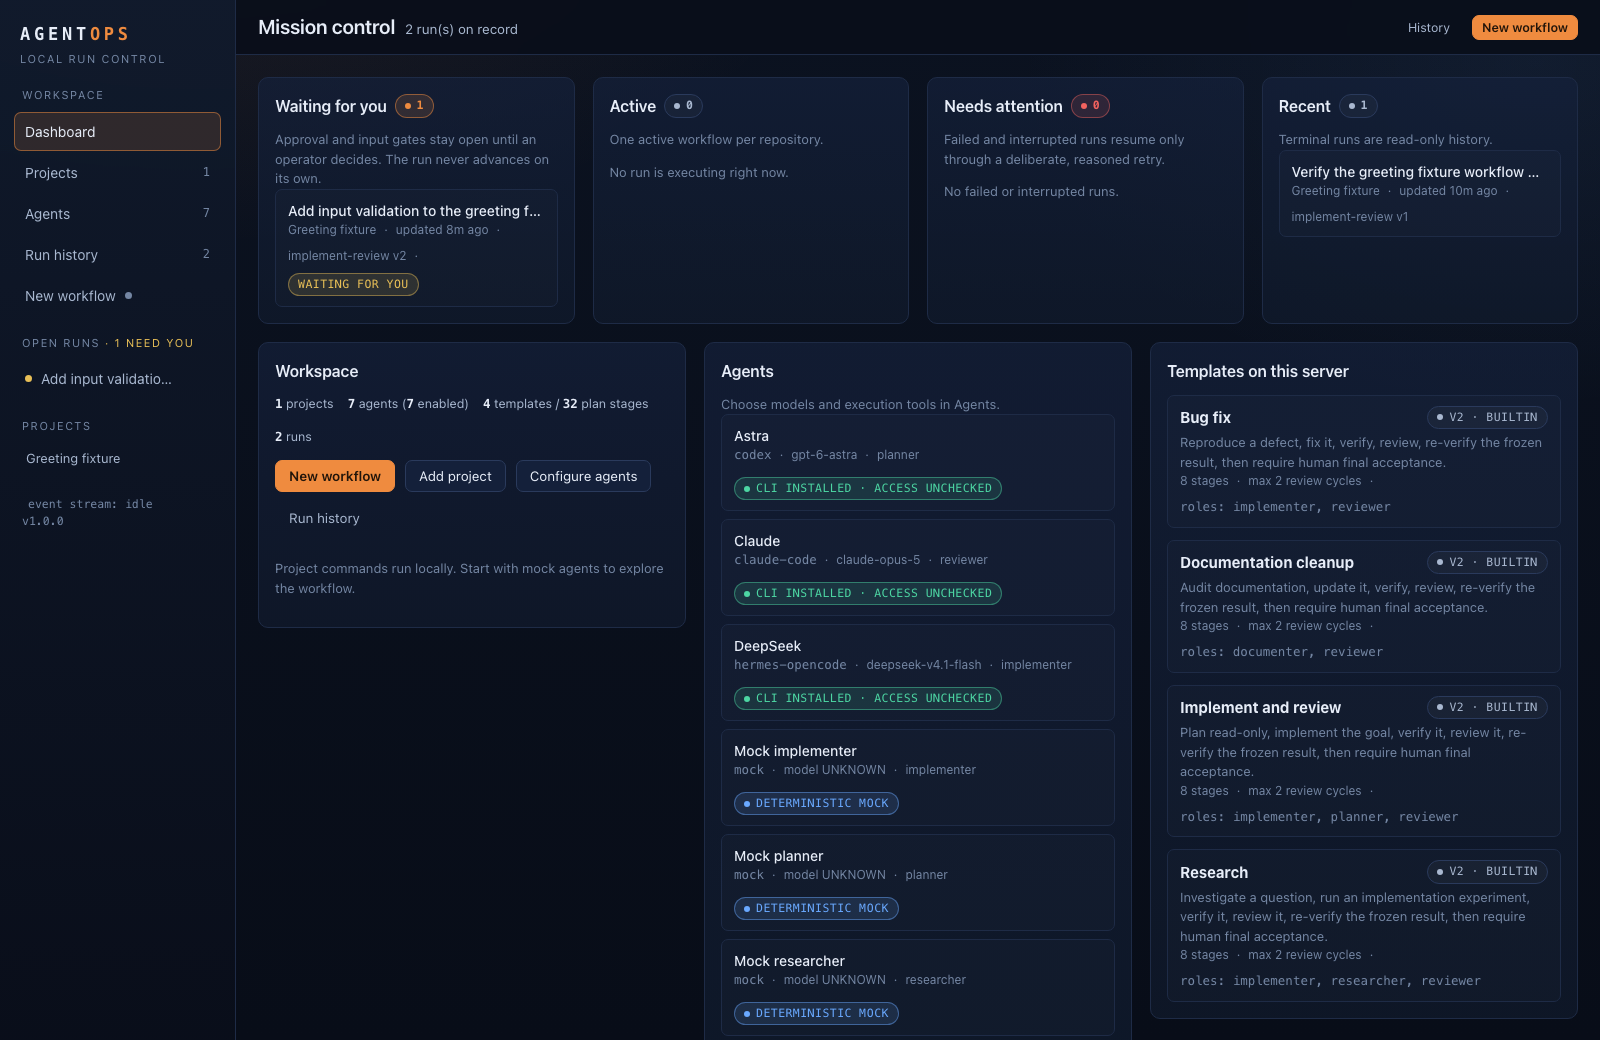
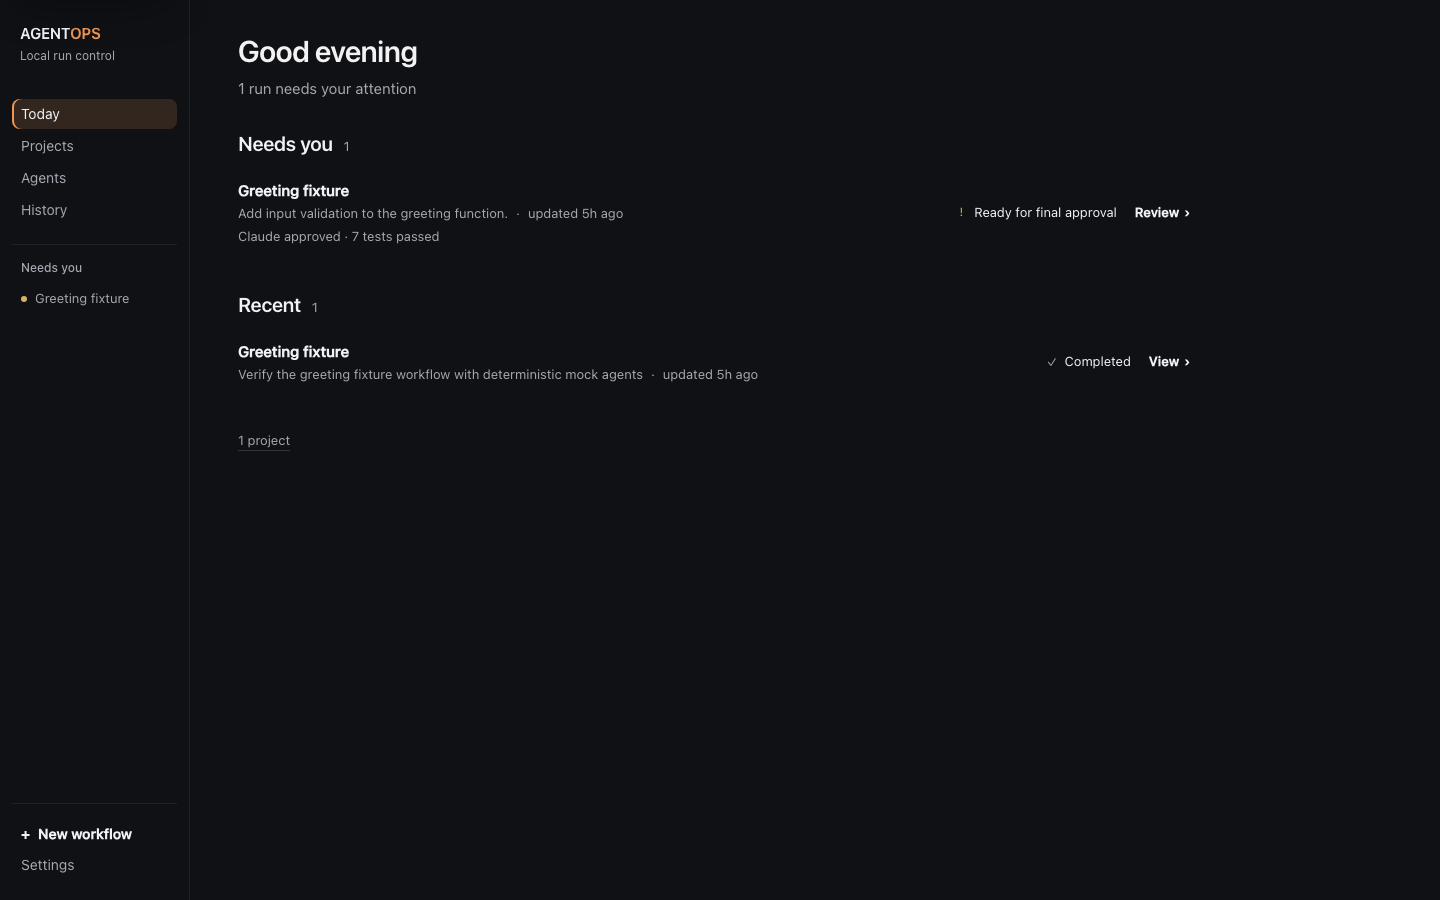
Refresh redesign screenshots and validation evidence

diff --git a/README.md b/README.md
@@ -2,11 +2,17 @@
 
 Local-first mission control for orchestrating, reviewing and auditing AI coding agents.
 
-![AgentOps run view](docs/screenshots/run.png)
+![AgentOps run ready for final review](docs/screenshots/run.png)
 
 AgentOps turns a coding goal into an inspectable local workflow: explicit prompts, owned processes, real verification commands, structured review, preserved retries, git checkpoints and a final human decision. Run records survive a browser refresh or backend restart.
 
 V1 passes automated checks and a real DeepSeek → tests → Claude coding workflow. See [acceptance evidence and limits](docs/ACCEPTANCE.md).
+
+The Today view puts runs that need a decision first. Changes, verification, reviews and raw logs are available from the run without crowding its current state.
+
+![AgentOps Today view](docs/screenshots/dashboard.png)
+
+![AgentOps full-width change review](docs/screenshots/changes.png)
 
 ## Quick start
 
@@ -24,7 +30,7 @@ Open **http://127.0.0.1:4317**. Data stays in `~/.agentops/agentops.sqlite`. Set
 
 1. **Add a project.** Enter its absolute git repository root and verification commands as an executable plus an argument array, for example `npm` and `["test"]`.
 2. **Configure agents.** Use mock agents first, or configure installed Codex, Claude Code, Hermes/OpenCode or generic CLIs. Model names are editable; installation does not establish provider access.
-3. **Create a workflow.** Choose a template, assign roles, enter a goal and constraints, then review the frozen stage plan before starting.
+3. **Create a workflow.** Enter the project goal and constraints, choose the team and plan, confirm the policy, then review the frozen workflow before starting.
 4. **Observe and decide.** Inspect exact prompts, live output, command results, diffs and review findings. Failed attempts remain visible when retried. A completed workflow waits for your acceptance.
 
 Verification runs real local commands even when the agents are mocks. Mock agents simulate outcomes; they do not pretend to edit your repository.

diff --git a/docs/ACCEPTANCE.md b/docs/ACCEPTANCE.md
@@ -39,6 +39,14 @@ Automated result: **206 tests passed, 0 failed**, plus **2 Chromium end-to-end t
 
 ![Local dashboard](screenshots/dashboard.png)
 
+![Full-width change review](screenshots/changes.png)
+
+## UI redesign validation
+
+The 2026-09-22 presentation redesign kept the service, persistence model and workflow engine unchanged. The current branch passed **249 automated tests**, **11 Chromium end-to-end tests**, TypeScript checks, the production build and the repository-wide formatting check. Browser coverage includes the guided workflow, final acceptance evidence, operator input, failed command, retry, review rejection, approve-with-fixes, completed run, keyboard tabs, responsive layout and readable diffs. The historical real run above remained pending and was used for read-only visual review.
+
+The screenshots above show the redesigned Today, final-review and Changes views. The earlier 206-test and two-browser-test result remains the V1 acceptance snapshot, not the current test count.
+
 ## Explicit boundaries
 
 This is a local process coordinator, not an OS sandbox. macOS/Linux only; no PTY automation or Windows tree guarantee. Interactive-only tools use manual handoff. AgentOps cannot observe tool calls a CLI does not emit. Git writes are disabled by the shipped workflow policy; dangerous writes and deployments are not implemented. Custom template editing is deferred. Logs are bounded and redacted best-effort; git checkpoints are metadata, not backups. AI CLIs use their existing provider credentials and may send context to their providers. No license has been selected.
